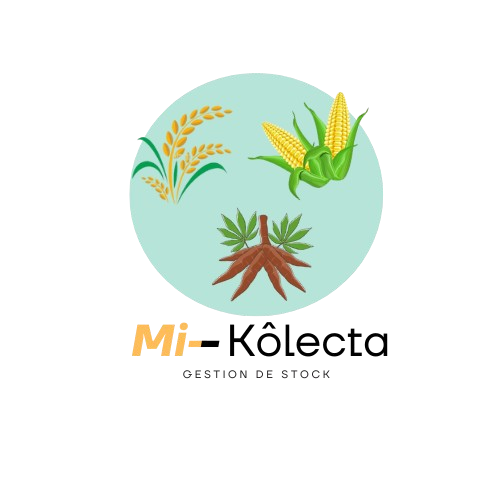
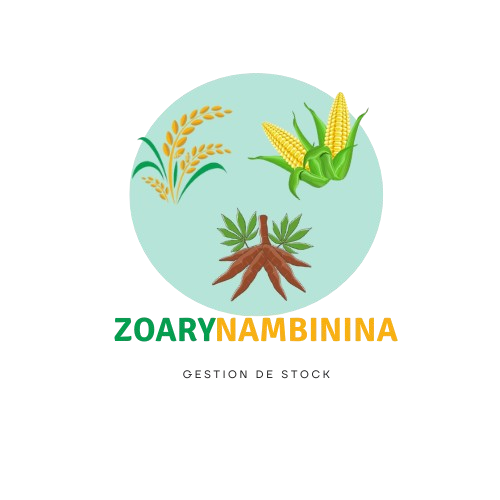
feat:finished bilan collecteur

Changed region(s): [[0.21, 0.63, 0.81, 0.72]]

diff --git a/app/dashboard/collecteurs/[id_collecteur]/page.tsx b/app/dashboard/collecteurs/[id_collecteur]/page.tsx
@@ -308,6 +308,11 @@ export default function PaymentPage({ params }: { params: Promise<{ id_collecteu
                   value={montant}
                   onChange={(e) => setMontant(e.target.value)}
                 />
+                {montant && !isNaN(Number(montant)) && (
+                  <p className="text-sm text-gray-600 mt-1">
+                    {Number(montant).toLocaleString('fr-FR')} Ar
+                  </p>
+                )}
               </div> : null}
               {formType == "debit" ? (
                 <div>
@@ -400,11 +405,8 @@ export default function PaymentPage({ params }: { params: Promise<{ id_collecteu
                       >
                         <option value="" disabled>Lieu de stock</option>
                         <option value="ITAOSY">ITAOSY</option>
-                        <option value="ANOSIZATO">ANOSIZATO</option>
-                        <option value="AMPASIKA">AMPASIKA</option>
-                        <option value="AMPANDRANA">AMPANDRANA</option>
-                        <option value="AMBATONDRAZAKA">AMBATONDRAZAKA</option>
-                        <option value="ALATSINAINIKELY">ALATSINAINIKELY</option>
+                        <option value="ANOSIZATO">IMERINTSIATOSIKA</option>
+                        <option value="AMPASIKA">ALATSINAINIKELY</option>
                       </select>
                     </div>
                     <button
@@ -477,12 +479,12 @@ export default function PaymentPage({ params }: { params: Promise<{ id_collecteu
 
                     <Image className='rounded-full hover:cursor-pointer' src="/credit.png" alt='credit' width={60} height={60} />
                     <div>
-                      <div className="font-semibold">Ref: {credit.referance_credit}</div>
+                      <div className="font-semibold">Montant: {credit.montant_credit} Ar</div>
                       <div className="text-sm text-gray-500">{credit.date_de_credit.split('T')[0]}</div>
                     </div>
                   </div>
                   <div className="flex flex-col items-end">
-                    <span>{credit.montant_credit} Ar</span>
+                    <span>M+R: {credit.montant_credit + credit.recentreste} Ar</span>
                     {credit.status == true ? (
                       <>
                         <Effectuer id_collecteur={1} />
@@ -660,7 +662,12 @@ export default function PaymentPage({ params }: { params: Promise<{ id_collecteu
                 </td>
 
                 <td className="whitespace-nowrap px-3 py-3">
-                  {credit.montant_credit}
+                  <p>
+                    M: {credit.montant_credit}
+                  </p>
+                  <p>
+                    M+R: {credit.montant_credit + credit.recentreste}
+                  </p>
                 </td>
 
                 <td className="whitespace-nowrap px-3 py-3">

diff --git a/app/ui/transactions/create-transaction.tsx b/app/ui/transactions/create-transaction.tsx
@@ -149,10 +149,8 @@ export default function CreateTransaction() {
             <select id="lieu_de_transaction" name="lieu_de_transaction" defaultValue="" className="w-full p-2 border border-gray-300 rounded-md">
               <option value="" disabled>Lieu de transaction</option>
               <option value="ITAOSY">ITAOSY</option>
-              <option value="ALATSINAINIKELY">ALATSINAINIKELY</option>
-              <option value="AMPASIKA">AMPASIKA</option>
-              <option value="AMBATONDRAZAKA">AMBATONDRAZAKA</option>
-              <option value="ANOSIZATO">ANOSIZATO</option>
+              <option value="ALATSINAINIKELY">IMERINTSIATOSIKA</option>
+              <option value="AMPASIKA">ALATSINAINIKELY</option>
             </select>
           </div>
         </div>

diff --git a/app/dashboard/clients/page.tsx b/app/dashboard/clients/page.tsx
@@ -20,7 +20,6 @@ export default async function page(props: {
   const searchParams = await props.searchParams;
   const query = searchParams?.query || "";
   const currentPage = Number(searchParams?.page) || 1;
-  const totalPages = Number(await getCountTransactions(query)) || 1;
 
   return (
     <div>
@@ -35,9 +34,6 @@ export default async function page(props: {
       <Suspense fallback={<InvoicesTableSkeleton />}>
         <Client query={query} currentPage={currentPage} />
       </Suspense>
-      <div className="mt-5 flex w-full justify-center">
-        <Pagination totalPages={totalPages} />
-      </div>
     </div>
   );
 }

diff --git a/app/page.tsx b/app/page.tsx
@@ -8,7 +8,7 @@ export default function Page() {
         {/* Section gauche */}
         <div className="flex flex-col justify-center items-center gap-4 rounded-lg bg-white px-2 py-6 md:w-2/5 shadow-lg bg-custom-bg bg-cover bg-center">
           <h1 className="text-3xl font-semibold text-gray-900 text-center">
-            Bienvenue chez <span className="text-blue-600">Mi-Kôlecta</span>
+            Bienvenue chez <span className="text-blue-600">ZOARYNAMBININA</span>
           </h1>
           <Photo />
           <p className="text-center text-gray-700 max-w-sm">

diff --git a/app/ui/dashboard/bilan-collecteur.tsx b/app/ui/dashboard/bilan-collecteur.tsx
@@ -38,7 +38,7 @@ export default function BilanCollecteur({
     const fetchData = async () => {
       try {
         const data = await getBilanCollecteur(startDate, endDate);
-        setBilan(data);
+        setBilan(Array.isArray(data) ? data : []);
 
         const totaux: ProduitTotal = {};
         let totalCredit = 0;
